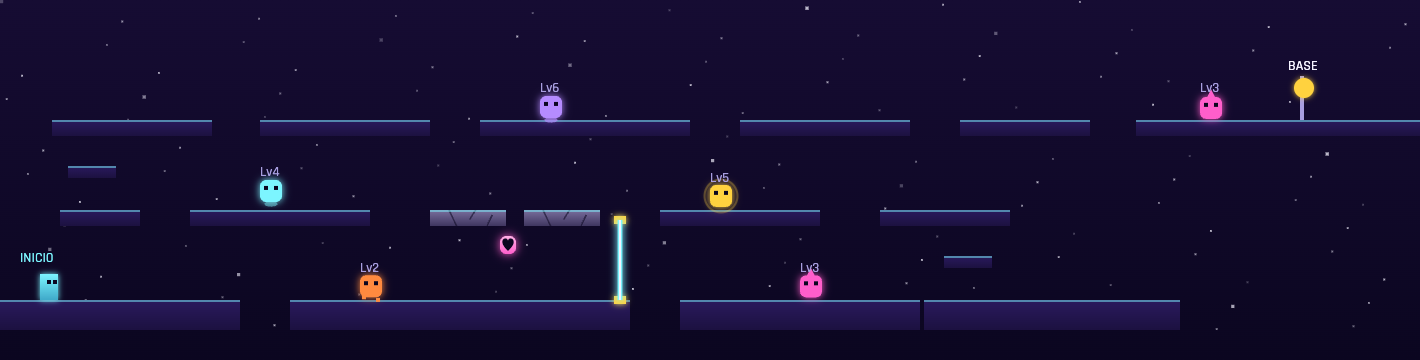
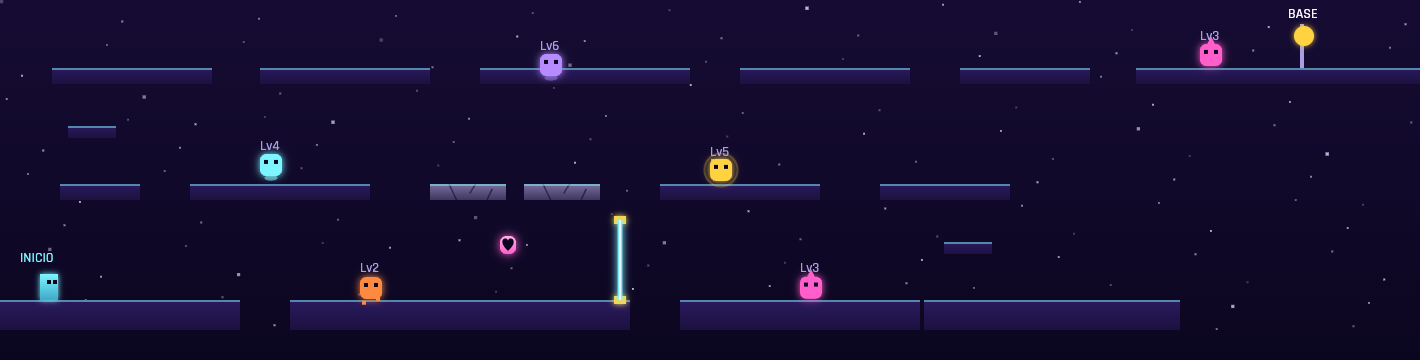
Torre de Vigía: separación entre pisos de 45 a 58 — el doble salto ya no las sube
Con 45 de separación, el doble salto de Kes (ápice ~46 + ventana de
aterrizaje de 10 ≈ 56 de subida máxima) se saltaba las escaleras
enteras y el serpentín quedaba en opcional para ella. Los pisos pasan
a y=150/92/34 (separación 58, por encima de ese máximo con margen) y
los peldaños suben a tramos de 29 — al límite cómodo del salto simple,
así que la escalera sigue siendo para todos. Solo el vuelo sostenido
de Bolt puede saltarse las escaleras, coherente con su papel de
rompe-niveles. La bandera (goalY 12) corona ahora casi el borde
superior de la pantalla: la torre por fin se VE como una torre.

El test del serpentín deja de afirmar contra un número escrito a mano:
mide el doble salto óptimo con la física real (salto, soltar, re-pulso
en el ápice) y fija que la separación real de los pisos lo supera; el
filtro del test de gating pasa a derivar el piso más alto en vez de
usar un umbral fijo. Verificado headless: Kes con doble salto óptimo
se queda a ~14 de la ventana del piso 2, y el bot serpentín completa
la torre por los peldaños nuevos.

diff --git a/js/levels.js b/js/levels.js
@@ -392,15 +392,16 @@ const LEVELS = [
     // ===== NIVEL EXTRA (sin nodo en el mapa todavía — se entra con ?level=13) =====
     {
         name: 'Torre de Vigía', world: 5, variant: 'normal', extra: true,
-        // El primer nivel VERTICAL: tres pisos (y=150, y=105, y=60 — separación 45, que ningún
-        // salto simple sube directo) recorridos en serpentín: → por el suelo, escalera al fondo
+        // El primer nivel VERTICAL: tres pisos (y=150, y=92, y=34 — separación 58, que no la sube
+        // NI el doble salto: su ápice + ventana de aterrizaje llega a ~56; solo el vuelo de
+        // Bolt se salta las escaleras) recorridos en serpentín: → por el suelo, escalera al fondo
         // derecho, ← por el piso 2, escalera al fondo izquierdo, → por el piso 3 hasta la BASE.
         // La meta sigue siendo una X (player.x >= goal), así que el serpentín se fuerza por
         // geometría: NINGÚN piso salvo el 3º se acerca a goal ni en pleno salto (extremo + ~42).
         // Caerse de un piso castiga con tiempo, no con vidas: cada hueco de los pisos 2-3 tiene
         // suelo debajo (incluido el suelo de recogida bajo la escalera derecha) — los únicos
         // huecos letales son los dos del piso 1.
-        goalY: 38, // la bandera pisa el piso 3 (y=60), no el suelo
+        goalY: 12, // la bandera pisa el piso 3 (y=34), no el suelo
         platforms: [
             // Piso 1 (izquierda → derecha). El tramo central es largo a propósito: queda justo
             // bajo la frágil del piso 2 — quien caiga cuando se desmorone aterriza en suelo
@@ -409,27 +410,28 @@ const LEVELS = [
             // Suelo de recogida bajo la escalera derecha: recoge cualquier caída del extremo
             // derecho del piso 2. Termina en 590 (590+42 < 640): ni en pleno salto alcanza la meta.
             [462, 150, 128, 15],
-            // Escalera derecha (piso 1 → piso 2): peldaño a media altura.
-            [472, 128, 24, 6],
+            // Escalera derecha (piso 1 → piso 2): peldaño a media altura (subidas de 29, al
+            // límite cómodo del salto simple).
+            [472, 121, 24, 6],
             // Piso 2 (derecha → izquierda). El tramo derecho acaba en 505 a propósito
             // (505+42 < goal). El del medio son DOS frágiles cortas, no una larga: con una sola
             // de 85, cruzarla andando (47-49 frames) rozaba su cuenta atrás de 50 y el margen
             // real era de 1-3 frames — injugable. Dos de 38 con temporizador propio se cruzan
             // con margen de sobra... si no te paras en ninguna.
-            [440, 105, 65, 8], [330, 105, 80, 8],
-            [215, 105, 38, 8, 'fragile'], [262, 105, 38, 8, 'fragile'],
-            [95, 105, 90, 8], [30, 105, 40, 8],
+            [440, 92, 65, 8], [330, 92, 80, 8],
+            [215, 92, 38, 8, 'fragile'], [262, 92, 38, 8, 'fragile'],
+            [95, 92, 90, 8], [30, 92, 40, 8],
             // Escalera izquierda (piso 2 → piso 3), en zigzag: arranca en x=34 y no en el borde
             // para no pisar el x=20 del spawn (el BFS de los tests elige como salida la
             // plataforma MÁS ALTA que cubre x=20 — si el peldaño lo cubriera, validaría un
             // camino que el jugador real no tiene).
-            [34, 83, 24, 6],
+            [34, 63, 24, 6],
             // Piso 3 (izquierda → derecha), con la meta al final. Sus huecos caen siempre sobre
             // tramo sólido del piso 2 (o del suelo de recogida), nunca sobre un pozo encadenado.
-            [26, 60, 80, 8], [130, 60, 85, 8], [240, 60, 105, 8], [370, 60, 85, 8], [480, 60, 65, 8], [568, 60, 150, 8]
+            [26, 34, 80, 8], [130, 34, 85, 8], [240, 34, 105, 8], [370, 34, 85, 8], [480, 34, 65, 8], [568, 34, 150, 8]
         ],
         beams: [[310, 110, 40, 0]],
-        enemies: [[180, 138, 'crawler'], [400, 138, 'spiker', 20], [355, 93, 'magnetite'], [130, 90, 'hoverbot', 40], [270, 48, 'ionwisp', 45], [600, 48, 'spiker', 25]],
+        enemies: [[180, 138, 'crawler'], [400, 138, 'spiker', 20], [355, 80, 'magnetite'], [130, 77, 'hoverbot', 40], [270, 27, 'ionwisp', 45], [600, 22, 'spiker', 25]],
         // Cápsula flotando entre pisos, bajo la frágil: un salto deliberado desde el corredor
         // del piso 1 la roza en el ápice.
         capsules: [[250, 118]],

diff --git a/__tests__/live.test.js b/__tests__/live.test.js
@@ -853,23 +853,33 @@ describe('Diseño de niveles — completables con salto SIMPLE (Scrap), contra j
         const maxReach = makeMaxReach(Player);
         const torre = LEVELS.find(l => l.extra);
         expect(torre).toBeDefined();
-        // Todo tramo por debajo del piso 3 (y > 100: suelo, recogida, peldaños bajos, piso 2)
-        // debe quedarse corto de la meta INCLUSO saltando desde su extremo derecho.
+        // Todo tramo por debajo del piso 3 (suelo, recogida, peldaños, piso 2 — el piso 3 es
+        // el más alto del nivel) debe quedarse corto de la meta INCLUSO saltando desde su
+        // extremo derecho.
         const flight = maxReach(0); // alcance horizontal del salto simple en llano (~42)
+        const topFloorY = Math.min(...torre.platforms.map(p => p[1]));
         torre.platforms
-            .filter(p => p[1] > 100)
+            .filter(p => p[1] > topFloorY)
             .forEach(p => expect(p[0] + p[2] + flight).toBeLessThan(torre.goal));
-        // Y la separación entre pisos (45) supera lo que sube un salto simple + su ventana de
-        // aterrizaje: de piso a piso solo se sube por los peldaños de las escaleras.
-        const pl = new Player(0, 0, 'scrap');
-        pl.onGround = true;
-        let jumped = false, minY = 0;
-        for (let f = 0; f < 60; f++) {
-            pl.update({ Space: !jumped }, [], { burst() {} });
-            jumped = true;
-            minY = Math.min(minY, pl.y);
+        // Y la separación entre pisos supera lo que sube incluso el DOBLE SALTO de Kes (con su
+        // ventana de aterrizaje): de piso a piso solo se sube por los peldaños — únicamente el
+        // vuelo de Bolt puede saltarse las escaleras.
+        const f1 = torre.platforms.find(p => p[1] === 150);
+        const f2 = torre.platforms.find(p => p[1] < 150 && p[3] === 8);
+        const spacing = f1[1] - f2[1]; // separación real entre pisos (58)
+        // doble salto óptimo medido con la física real: salto, soltar, y re-pulsar en el ápice
+        const kes = new Player(0, 0, 'kes');
+        kes.onGround = true;
+        let phase = 'first', minY = 0;
+        for (let f = 0; f < 120; f++) {
+            let space = false;
+            if (phase === 'first') { space = true; phase = 'released'; }
+            else if (phase === 'released' && kes.vy > -0.2) { space = true; phase = 'doubled'; }
+            kes.update({ Space: space }, [], { burst() {} });
+            minY = Math.min(minY, kes.y);
         }
-        expect(45).toBeGreaterThan(-minY + 10); // 45 > ápice (~27) + snap (10)
+        expect(phase).toBe('doubled'); // el doble salto de verdad se ejecutó (si no, el test no mide nada)
+        expect(spacing).toBeGreaterThan(-minY + 10); // 58 > ápice del doble (~46) + snap (10)
     });
 
     test('Torre de Vigía: completarla marca su nodo sin destapar la Aguja ni disparar la victoria', () => {

diff --git a/DESIGN.md b/DESIGN.md
@@ -345,7 +345,7 @@ La progresión era 100% automática (gainXP sube todos los stats en tabla fija) 
 
 Los 12 niveles del mapa son horizontales; la Torre (nivel Extra, índice 12 de `LEVELS`, sin nodo de mapa todavía) explora la otra dimensión con tres restricciones duras del motor convertidas en decisiones:
 
-- **No hay cámara vertical** (la cámara solo sigue en X) → los tres pisos caben en los 180px del canvas: y=150, y=105, y=60, separación 45 — deliberadamente por encima del alcance vertical del salto simple (~27 de ápice + 10 de ventana de aterrizaje), así que de piso a piso solo se sube por los peldaños de las escaleras (o pagando Energía en habilidad aérea, el atajo de siempre). Un test fija que 45 > ápice+ventana.
+- **No hay cámara vertical** (la cámara solo sigue en X) → los tres pisos caben en los 180px del canvas: y=150, y=92, y=34, separación 58 — deliberadamente por encima del alcance vertical incluso del DOBLE SALTO (~46 de ápice + 10 de ventana de aterrizaje; la primera versión usaba 45 y Kes se saltaba las escaleras enteras con un doble salto bien medido). De piso a piso solo se sube por los peldaños (subidas de 29, salto simple); únicamente el vuelo sostenido de Bolt compra el atajo vertical. Un test mide el doble salto óptimo con la física real y fija que la separación lo supera.
 - **La meta es solo una X** (`player.x >= goal`, sin Y) → el serpentín (→, ↑, ←, ↑, →) se fuerza por geometría: ningún tramo por debajo del piso 3 se acerca a la meta NI EN PLENO SALTO (extremo derecho + ~42 de vuelo < goal, fijado por test). La primera versión dejaba la meta a 12px del alcance de un salto desde el suelo de recogida — por eso goal=650 y no 640.
 - **Caerse de piso castiga tiempo, no vidas**: los huecos de los pisos 2-3 caen siempre sobre tramo sólido inferior (el tramo central del suelo es largo a propósito para quedar bajo las frágiles; un suelo de recogida cubre la vertical de la escalera derecha). Los únicos pozos letales son los dos del suelo. Y las frágiles del piso 2 son DOS cortas y no una larga: cruzar una de 85 andando (47-49 frames) rozaba su propia cuenta atrás de 50 — margen real de 1-3 frames, injugable; dos de 38 con temporizador propio se cruzan con margen si no te paras.
 
